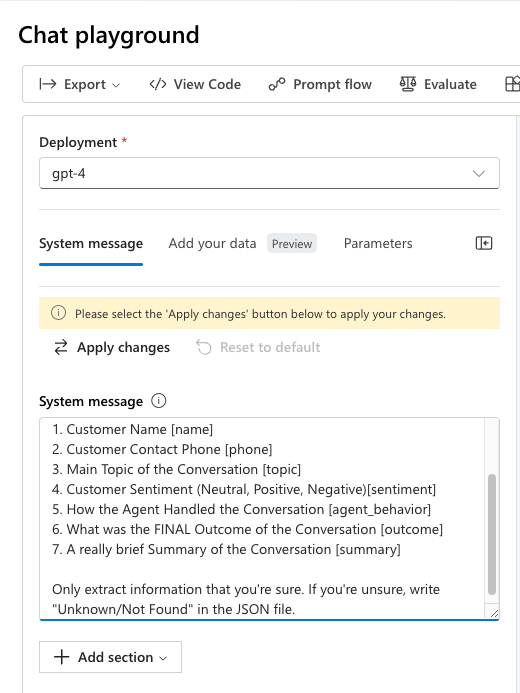
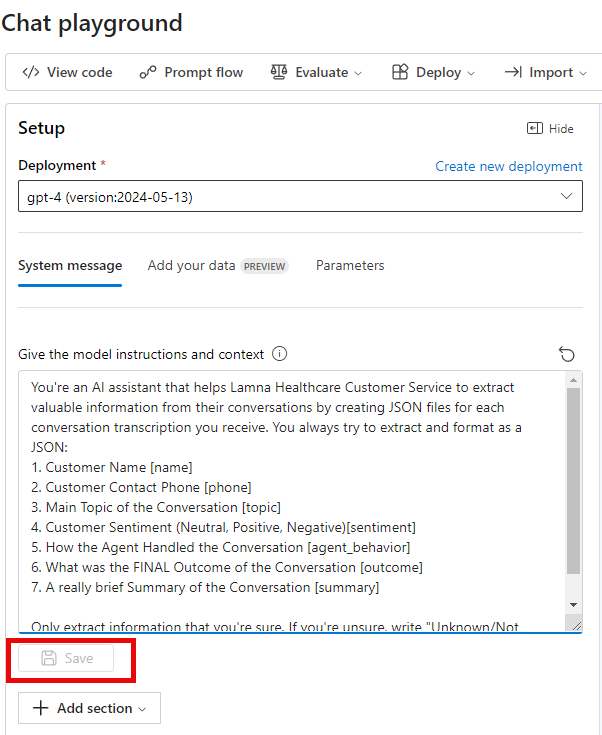
Changes to Lab 1 instructions and images

diff --git a/index.md b/index.md
@@ -19,11 +19,11 @@ nav_order: 1
 
 ![Diagram showing Azure AI Studio and the scope of use within the environment](resource-provider-connected-resources.svg)
 
-The diagram shows the solution architecture of an AI project within Azure AI Studio. The AI Studio Hub includes the the Azure Subcription, Resource Group, and Azure Content Safety service. The AI Studio Hub provides integration with services including Azure OpenAI, Azure AI Search, and Azure Storage Accounts to implement AI-based solutions. The AI Playground offers tools like Chat Playground, Deployments, and Prompt Flow, that enable get quick and easy access to AI models such as GPT-4 and Llama-2 and interactive development tools.
+The diagram shows the solution architecture of an AI project within Azure AI Studio. The AI Studio Hub includes the Azure Subcription, Resource Group, and Azure Content Safety service. The AI Studio Hub provides integration with services including Azure OpenAI, Azure AI Search, and Azure Storage Accounts to implement AI-based solutions. The AI Playground offers tools like Chat Playground, Deployments, and Prompt Flow, that enable quick and easy access to AI models such as GPT-4 and Llama-2 and interactive development tools.
 
 ## Exercises
 
-This lab has exercises on:
+These labs have exercises on:
 
 * Configuring and setting up Azure AI Studio Project
 * Set up a Conversational RAG Flow
@@ -31,7 +31,7 @@ This lab has exercises on:
 * Creating and testing multiple prompt flows and models
 * Using a notebook to setup and configure a project
 
-This lab is available as GitHub pages [here](https://microsoft.github.io/TechExcel-Operationalize-LLMs-with-LLMOps-automation)
+These lab are available as GitHub pages [here](https://microsoft.github.io/TechExcel-Operationalize-LLMs-with-LLMOps-automation)
 
 ## Prerequisites
 

diff --git a/docs/01_intro_to_llms/01_setup.md b/docs/01_intro_to_llms/01_setup.md
@@ -33,9 +33,10 @@ In this setup task, you will learn how to **start a new project** by creating a 
 * [Access to Azure OpenAI](https://learn.microsoft.com/legal/cognitive-services/openai/limited-access) - submit a form to request access.
 * Permissions to create a Service Principal (SP) in your Azure AD Tenant.
 * Permissions to assign the Owner role or Contributor and User Access Administrator to the SP within the subscription.
+* Install jq (optional) - a lightweight and flexible command-line JSON processor by running the following command `winget install jqlang.jq`
 
 > **Note:**   
-> The Windows installers makes modifications your PATH. When using Windows Terminal or VS Code Terminal or other environment, you will need to **open a new window** for the changes to take effect. (Simply opening a new tab will _not_ be sufficient.)
+> The Windows installers make modifications to your PATH. When using Windows Terminal or VS Code Terminal or other environment, you will need to **open a new window** for the changes to take effect. (Simply opening a new tab will _not_ be sufficient.)
 
 ### Verifiy tools are installed
 
@@ -50,7 +51,7 @@ In this setup task, you will learn how to **start a new project** by creating a 
     gh --version
    ```
 > **Note:**
-> if any of the tools suggest an upgrade please do so this can be acomplished with the ```winget upgrade``` conmand 
+> if any of the tools suggest an upgrade please do so. This can be acomplished with the ```winget upgrade``` conmand 
 
 
 ### Check Azure OpenAI Model Availability:

diff --git a/docs/01_intro_to_llms/01_01.md b/docs/01_intro_to_llms/01_01.md
@@ -91,9 +91,9 @@ The Azure AI Studio Playground provides a simple and interactive user interface 
     Only extract information that you're sure. If you're unsure, write "Unknown/Not Found" in the JSON file.
     ```
 
-5. After copying, select **Apply changes**, (if prompted start a new chat)
+5. After copying, select **Save**, (if prompted start a new chat)
 
-    ![A portion of the Chat playground screen displays with the System message populated. The Apply changes button is visible above the System message text box.](images/labgrab14.png)
+    ![A portion of the Chat playground screen displays with the System message populated. The Save button is visible below the System message text box.](images/labgrab14.png)
 
 6. Copy following text and paste it into the chat session and press the send button:
 

diff --git a/docs/01_intro_to_llms/01_02.md b/docs/01_intro_to_llms/01_02.md
@@ -23,7 +23,7 @@ The key tasks are as follows:
 
 ## Success Criteria
 
-* Consistently results in the LLM returning accurate and properly formatted JSON based on the provided conversation transcript using an open-source model.
+* Consistent results in the LLM returning accurate and properly formatted JSON based on the provided conversation transcript using an open-source model.
 
 ## Solution
 
